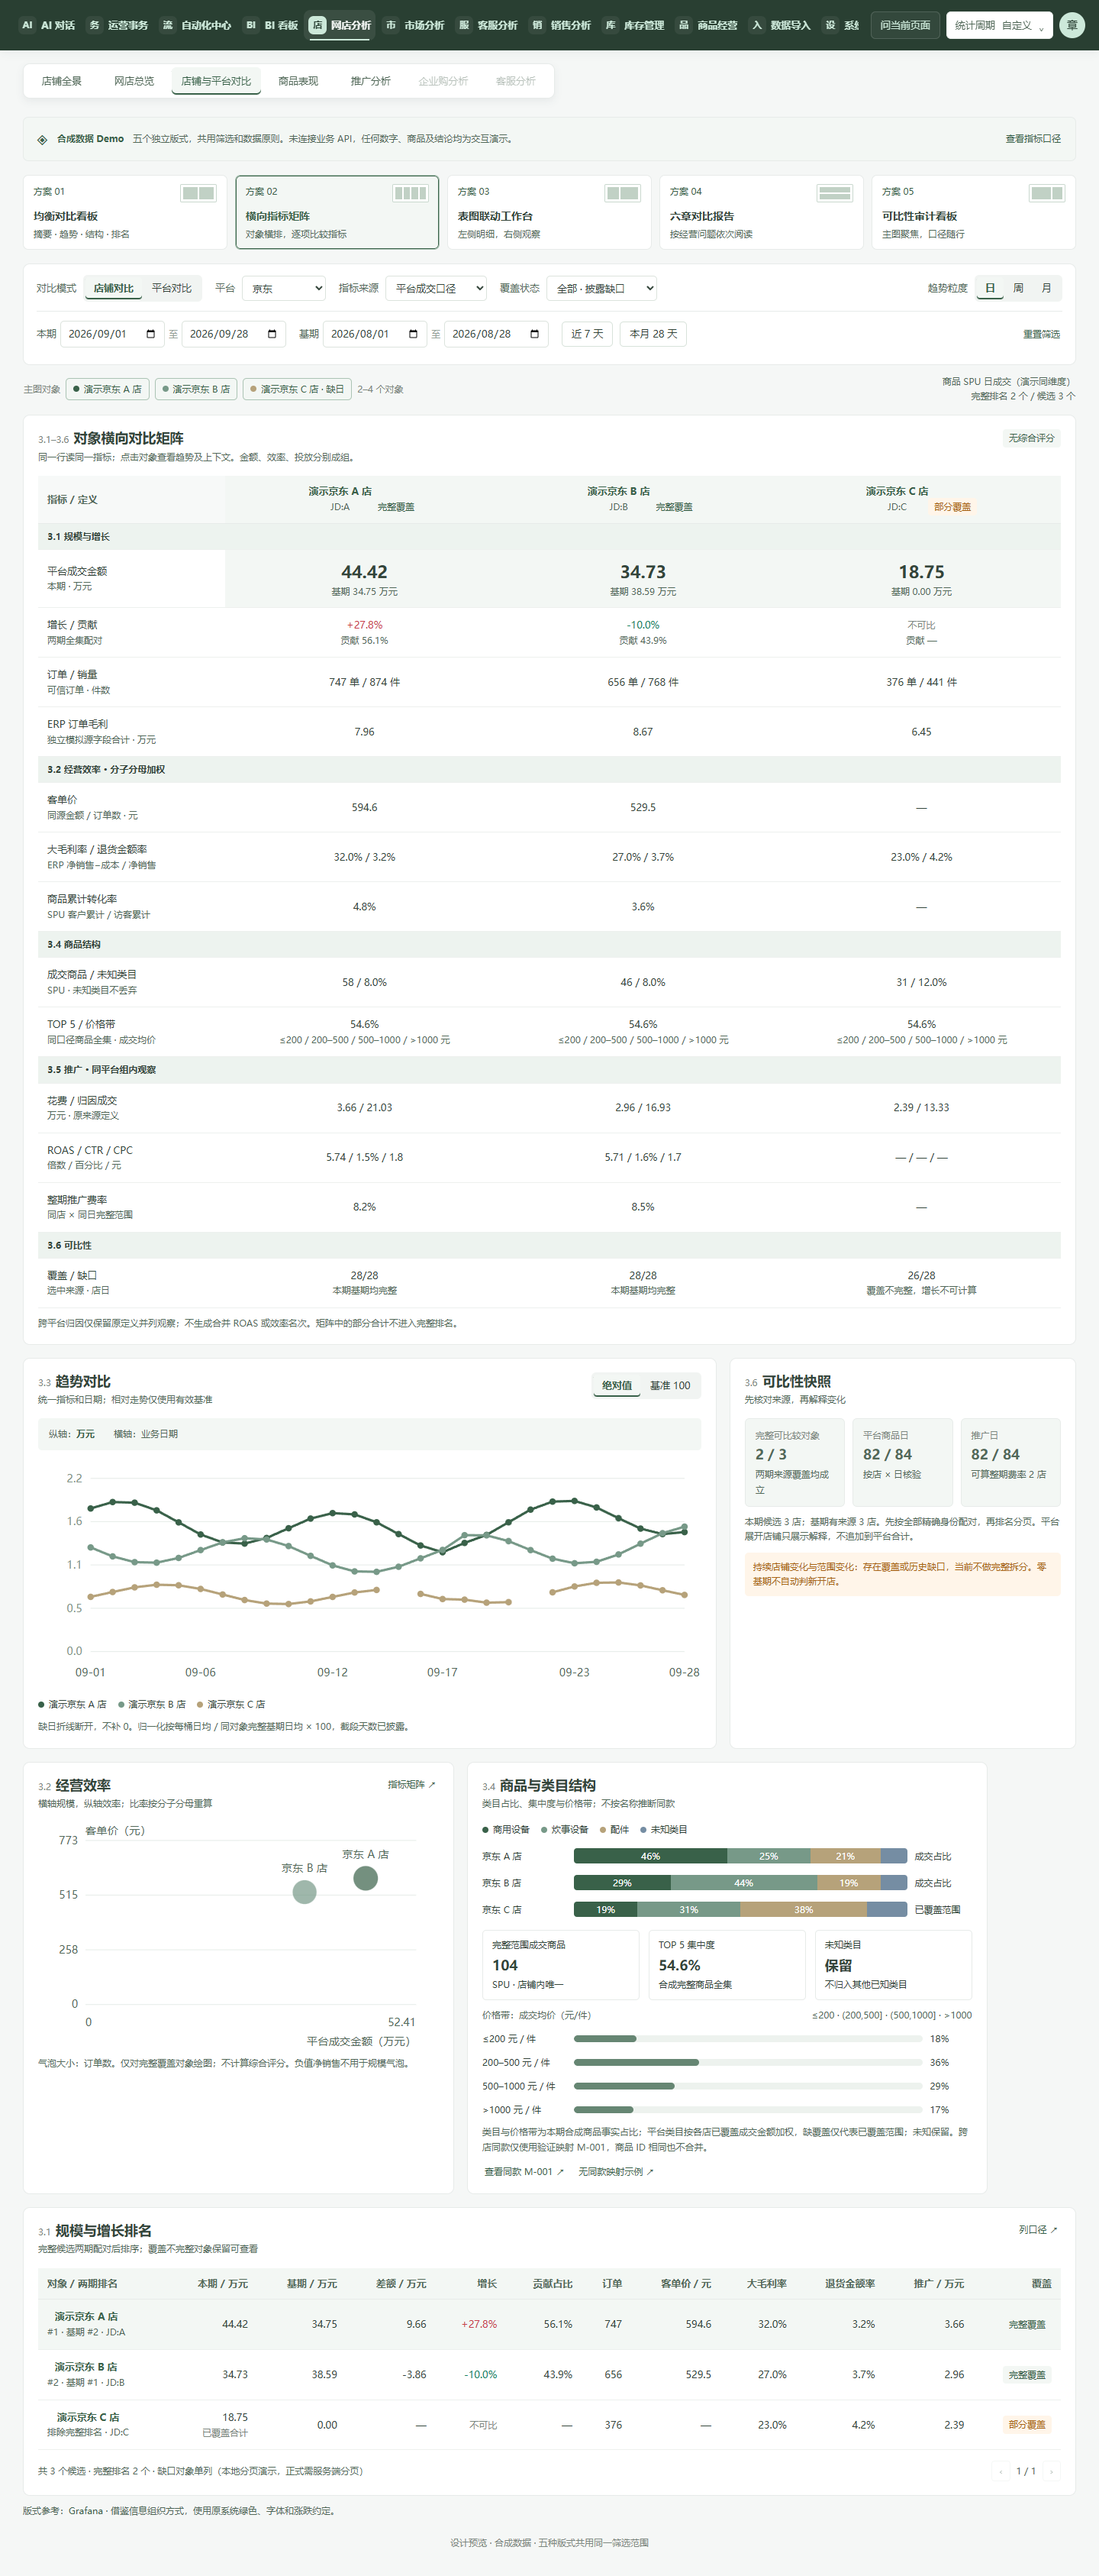
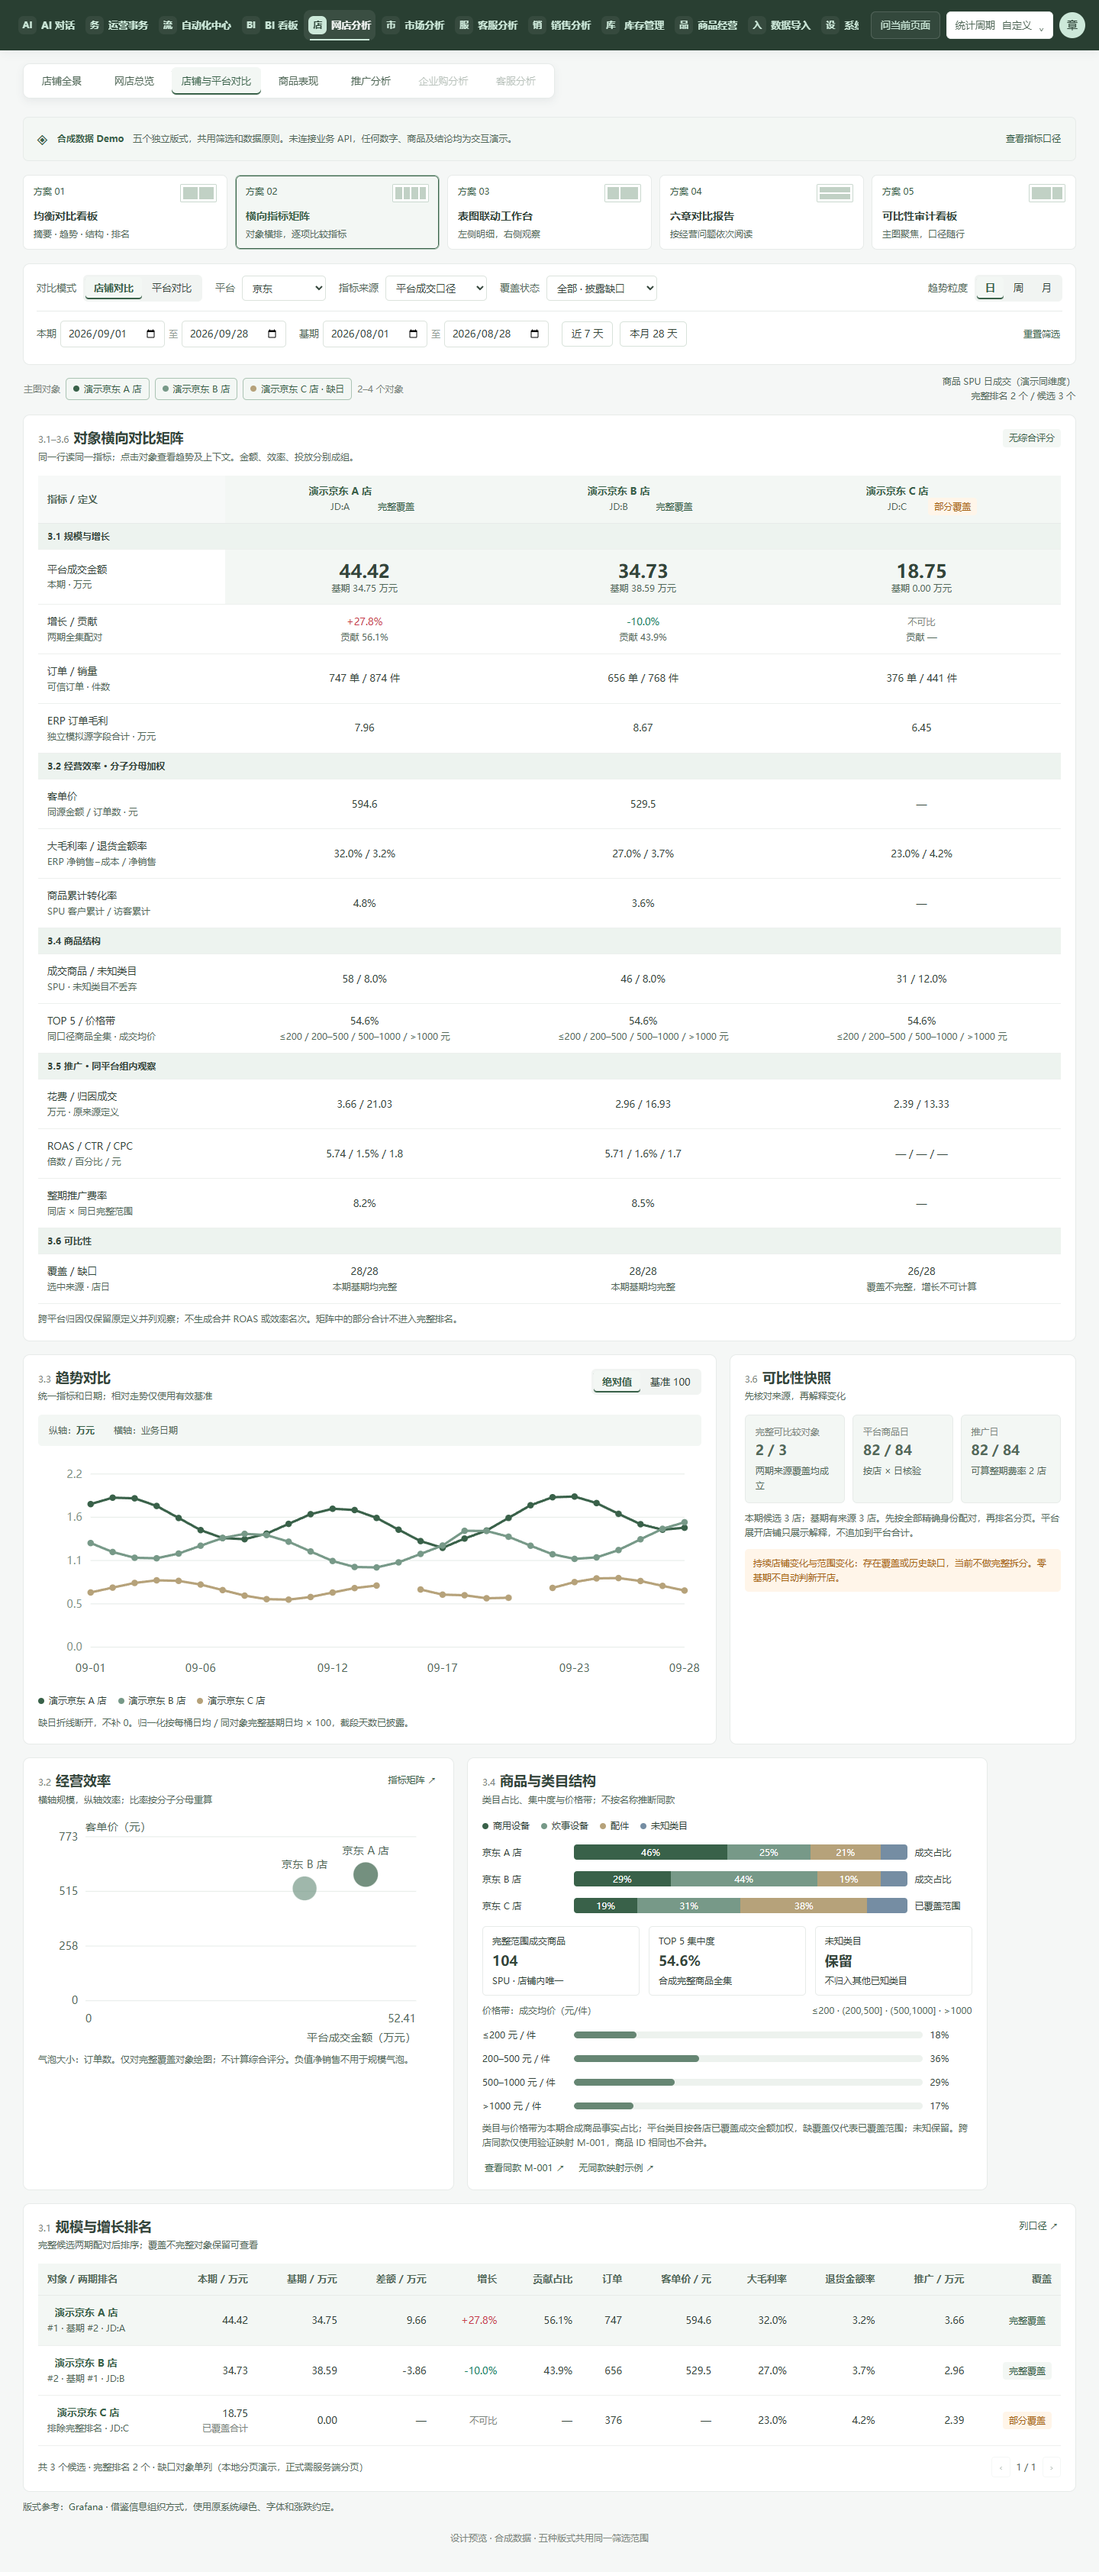
style(netshop): normalize primary matrix numbers to system scale

diff --git a/app/netshop/comparison/demo/system-frame.css b/app/netshop/comparison/demo/system-frame.css
@@ -28,7 +28,7 @@ h3 { font-size:var(--font-size-card-title); line-height:var(--line-height-tight)
 small,.small,.plain-note,.card-head p,.demo-notice,.page-footer { font-size:var(--font-size-caption); }
 label,.field-label,th,td,.segment button,.outline-button,.primary-button,.kpi-label { font-size:var(--font-size-label); }
 th,td { line-height:var(--line-height-body); }
-.kpi-value,.mini-kpis strong { font-size:var(--font-size-kpi); line-height:var(--line-height-tight); }
+.kpi-value,.mini-kpis strong,.matrix-table .big-cell { font-size:var(--font-size-kpi); line-height:var(--line-height-tight); }
 .card,.kpi-card,.filter-card { background:var(--color-bg-surface); border-color:var(--color-border-default); border-radius:var(--radius-md); }
 .filter-card { scroll-margin-top:calc(var(--demo-masthead-height) + 85px); }
 .primary-button { background:var(--color-brand); border-color:var(--color-brand); box-shadow:none; }
